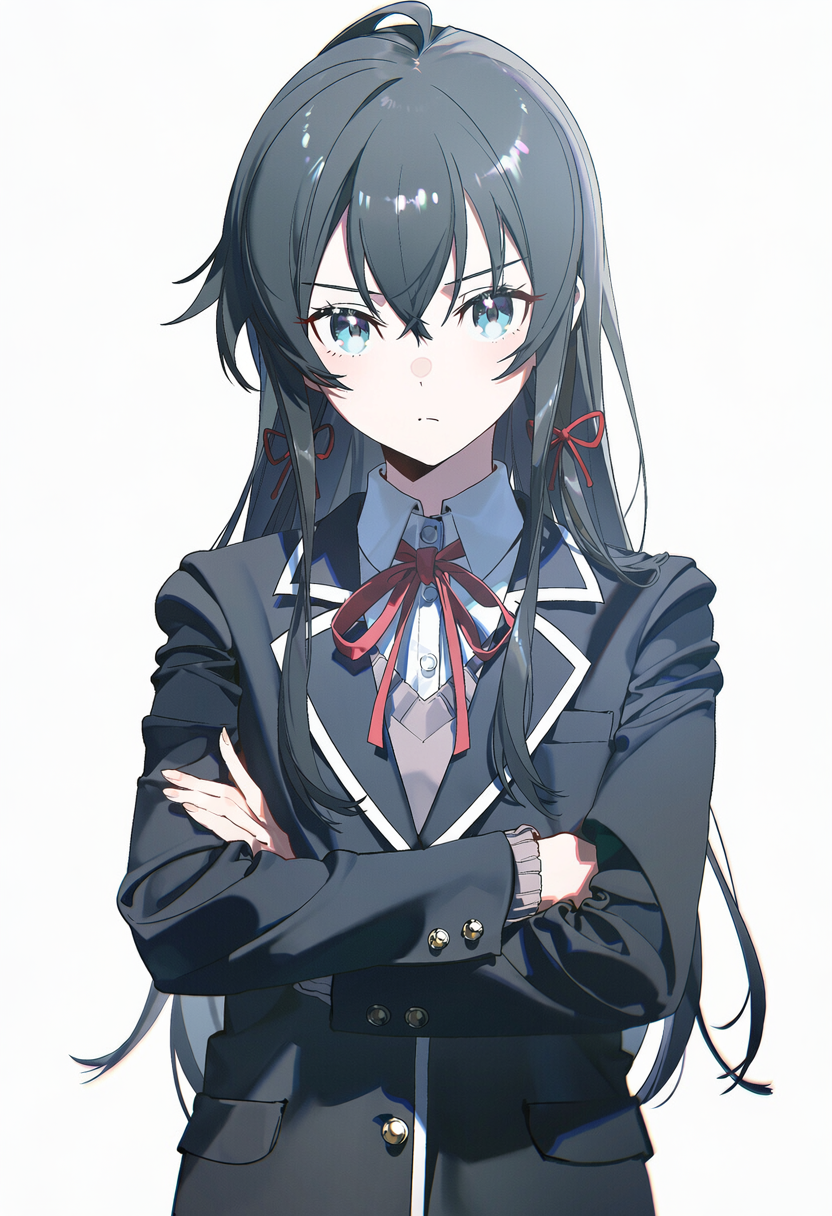
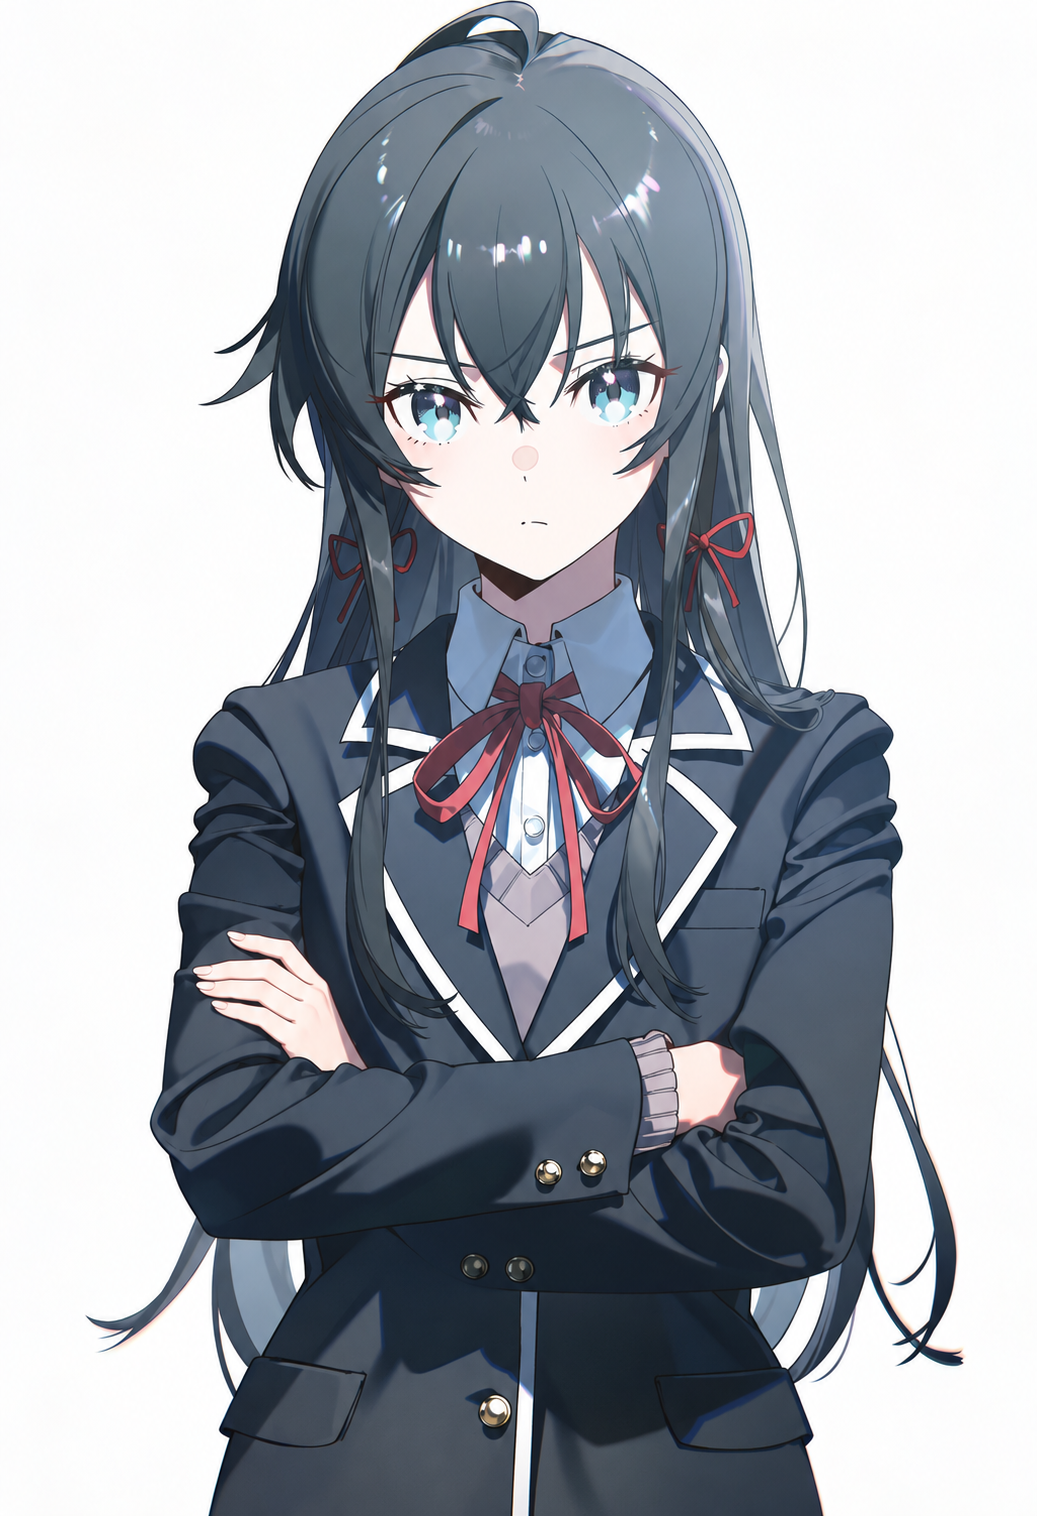
Update 雪之下雪乃 default portrait

diff --git a/images/portraits/oregairu/yukinoshita-yukino/README.md b/images/portraits/oregairu/yukinoshita-yukino/README.md
@@ -1,11 +1,18 @@
 # 雪之下雪乃 · 常规立绘
 
 - 当前文件：[default.png](default.png)。
-- 用户选定原图：`雪乃.png`。
-- 尺寸：832 × 1216；大小：1,457,637 字节。
[1 lines of base64/hex data omitted]
-- PNG 模型记录：NovelAI Diffusion V5 0ADF9AB7。
-- 可读取的生成参数：seed 66552922；steps 28；scale 6.0；cfg_rescale 0.0；sampler k_euler_ancestral；noise_schedule karras。
+- 用户选定原图：`exec-33896cc5-4e6a-4229-ac05-c699ece8010f.png`。
+- 尺寸：1037 × 1516；大小：1,682,674 字节。
[1 lines of base64/hex data omitted]
+- PNG 模型记录：未知。
+- 可读取的生成参数：seed 未知；steps 未知；scale 未知；cfg_rescale 未知；sampler 未知；noise_schedule 未知。
 - 原图字节及内嵌数据完整保留，没有裁切、缩放、抠图或重新编码。
 - 当前默认形象的运行时引用以状态栏 portraitsSB 为准；不随剧情着装自动切换。
 - 图片选定不代替真实 SillyTavern 与实际设备显示验收。
+
+## 本次选定版本
+
+- 基于此前已上传的雪乃立绘，经 Codex 图像编辑修整抱臂手部，并适度收拢制服腰侧；保持纤细体型和抱臂构图。
+- 本次上传直接采用用户确认的修复版，未再次裁剪、缩放或重绘。
+- 当前目录固定使用 default.png，旧版已被本次文件替换，不另保留旧图文件；Git 历史可回溯。
+- 当前编辑成稿未携带可读取的 NovelAI 参数，旧版的 seed 66552922 不能作为此修复版的复现参数。
